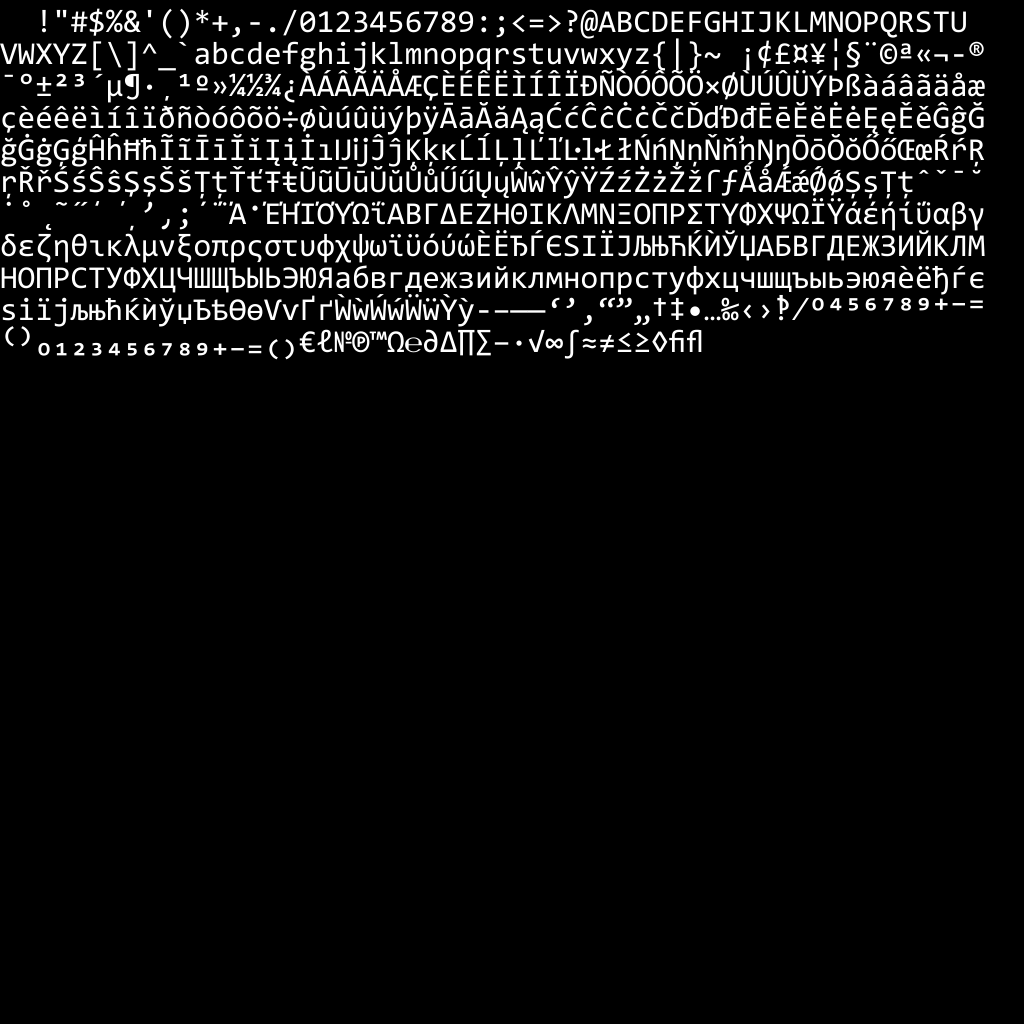
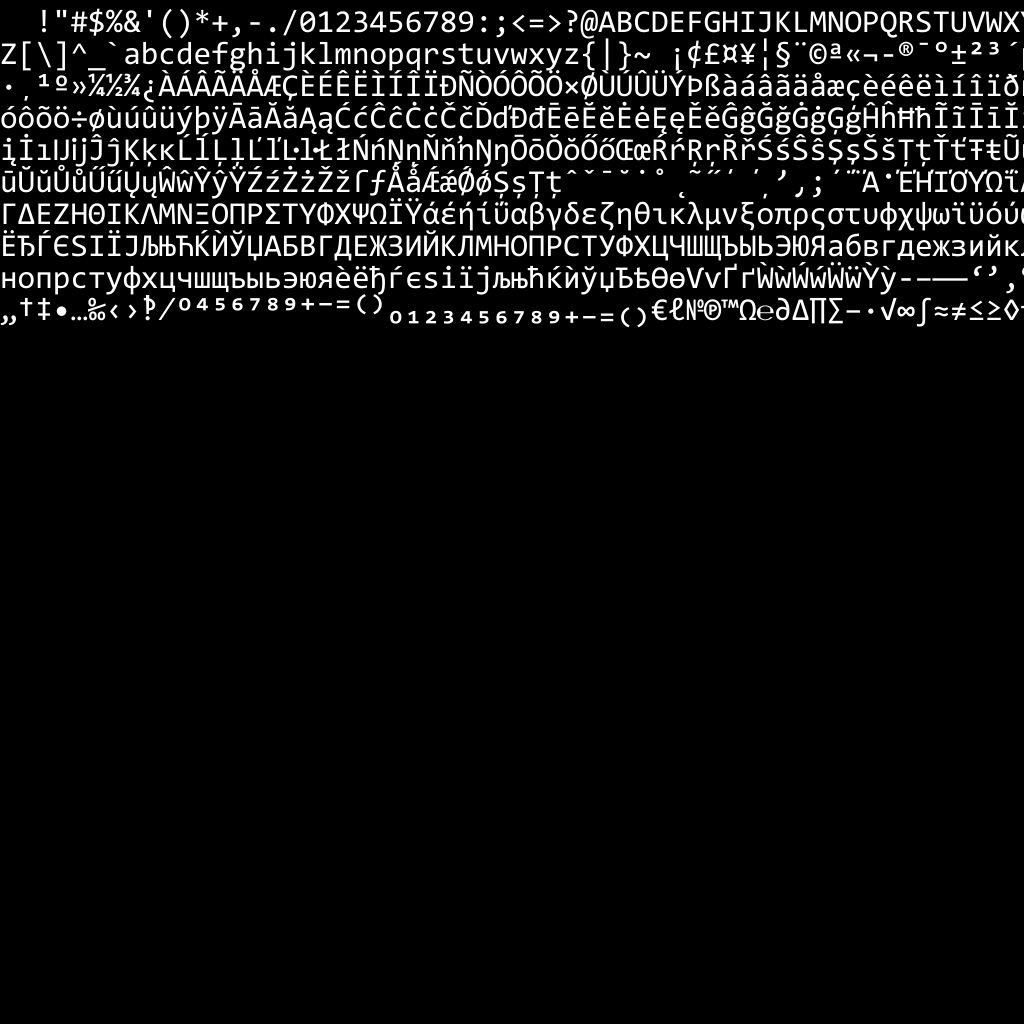
Floor atlas stuff instead of round to avoid texture bleeding

Changed region(s): [[0.0, 0.0, 1.0, 0.3438]]

diff --git a/main.go b/main.go
@@ -117,8 +117,8 @@ func genTextureAtlasFromFace(f *truetype.Font, face font.Face, pointSize uint) *
 	atlasSizeY := 512
 
 	_, charWidthFixed, _ := face.GlyphBounds(glyphs[0])
-	charWidth := charWidthFixed.Round()
-	lineHeight := face.Metrics().Height.Round()
+	charWidth := charWidthFixed.Floor()
+	lineHeight := face.Metrics().Height.Floor()
 
 	maxLinesInAtlas := atlasSizeY/lineHeight - 1
 	charsPerLine := atlasSizeX / charWidth
@@ -161,20 +161,20 @@ func genTextureAtlasFromFace(f *truetype.Font, face font.Face, pointSize uint) *
 		gBounds, gAdvanceFixed, _ := face.GlyphBounds(g)
 
 		descent := gBounds.Max.Y
-		advanceRounded := gAdvanceFixed.Round()
+		advanceRounded := gAdvanceFixed.Floor()
 		ascent := -gBounds.Min.Y
 
-		heightRounded := (ascent + descent).Round()
+		heightRounded := (ascent + descent).Floor()
 
 		atlas.Glyphs[g] = FontTexAtlasGlyph{
-			U: float32(drawer.Dot.X.Round()) / float32(atlasSizeX),
-			V: (float32(atlasSizeY-(drawer.Dot.Y+descent).Round()) / float32(atlasSizeY)),
+			U: float32(drawer.Dot.X.Floor()) / float32(atlasSizeX),
+			V: (float32(atlasSizeY-(drawer.Dot.Y+descent).Floor()) / float32(atlasSizeY)),
 
 			SizeU: float32(advanceRounded) / float32(atlasSizeX),
 			SizeV: (float32(heightRounded) / float32(atlasSizeY)),
 
-			Ascent:  float32(ascent.Round()),
-			Descent: float32(descent.Round()),
+			Ascent:  float32(ascent.Floor()),
+			Descent: float32(descent.Floor()),
 			Advance: float32(advanceRounded),
 		}
 		drawer.DrawString(string(g))
@@ -279,7 +279,7 @@ func (p *program) Render() {
 	p.drawTextOpenGL(atlas, fmt.Sprintf("FPS=%f", fps), gglm.NewVec3(0, startFromTop, 0))
 
 	//From bottom
-	count := 100
+	count := 5
 	drawnChars := len("Hello friend.\nHow are you?") * count
 	println("Drawn chars:", drawnChars)
 
@@ -435,6 +435,8 @@ func (p *program) drawTextOpenGL(atlas *FontTexAtlas, text string, startPos *ggl
 
 	//Draw
 	pos := startPos.Clone()
+	tr := gglm.NewTrMatId()
+
 	rs := []rune(text)
 	for i := 0; i < len(rs); i++ {
 
@@ -475,9 +477,21 @@ func (p *program) drawTextOpenGL(atlas *FontTexAtlas, text string, startPos *ggl
 		//
 		//Horizontally the character should be drawn from the left edge not the center, so we just move it forward by advance/2
 		drawPos := *pos
-		drawPos.Add(gglm.NewVec3(g.Advance*0.5, height*0.5-g.Descent, 0))
+		drawPos.SetX(drawPos.X() + g.Advance*0.5)
+		drawPos.SetY(drawPos.Y() + height*0.5 - g.Descent)
 
-		p.rend.Draw(glyphMesh, gglm.NewTrMatId().Translate(&drawPos).Scale(scale), glyphMat)
+		//Set position and scale then update gpu
+		tr.Set(0, 3, drawPos.X())
+		tr.Set(1, 3, drawPos.Y())
+		tr.Set(2, 3, drawPos.Z())
+
+		tr.Set(0, 0, scale.X())
+		tr.Set(1, 1, scale.Y())
+		tr.Set(2, 2, scale.Z())
+		glyphMat.SetUnifMat4("modelMat", &tr.Mat4)
+
+		gl.DrawElements(gl.TRIANGLES, glyphMesh.Buf.IndexBufCount, gl.UNSIGNED_INT, gl.PtrOffset(0))
+		// p.rend.Draw(glyphMesh, gglm.NewTrMatId().Translate(&drawPos).Scale(scale), glyphMat)
 		pos.SetX(pos.X() + g.Advance)
 	}
 }
